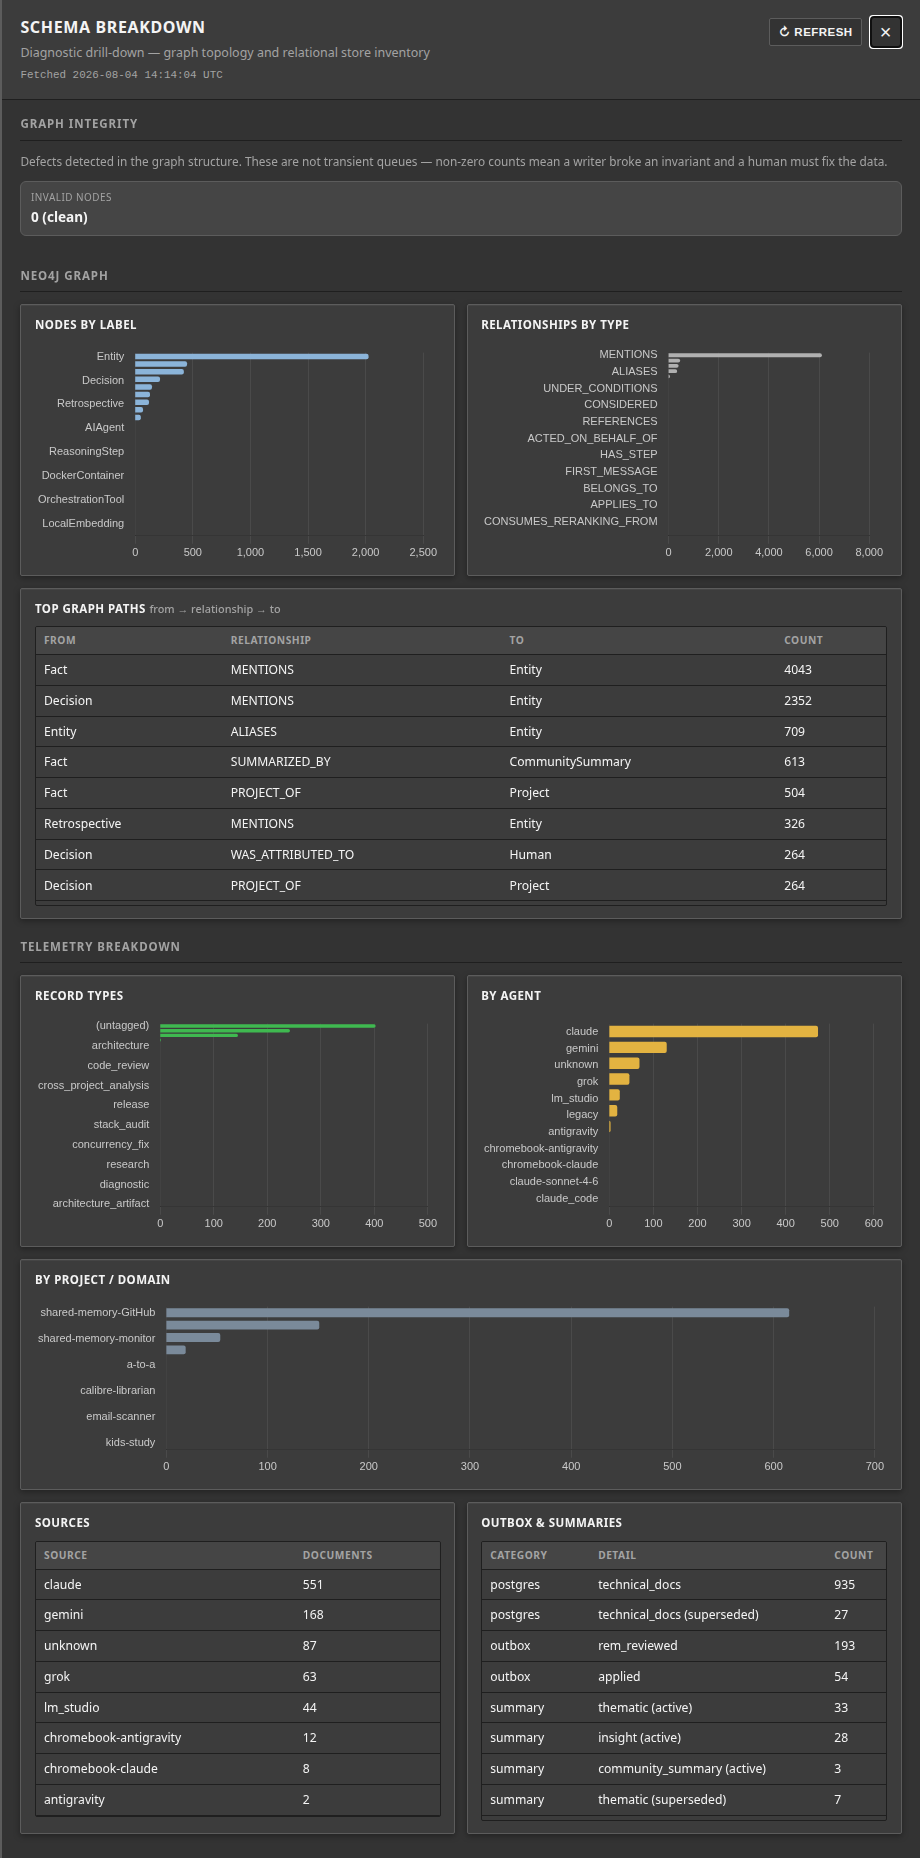
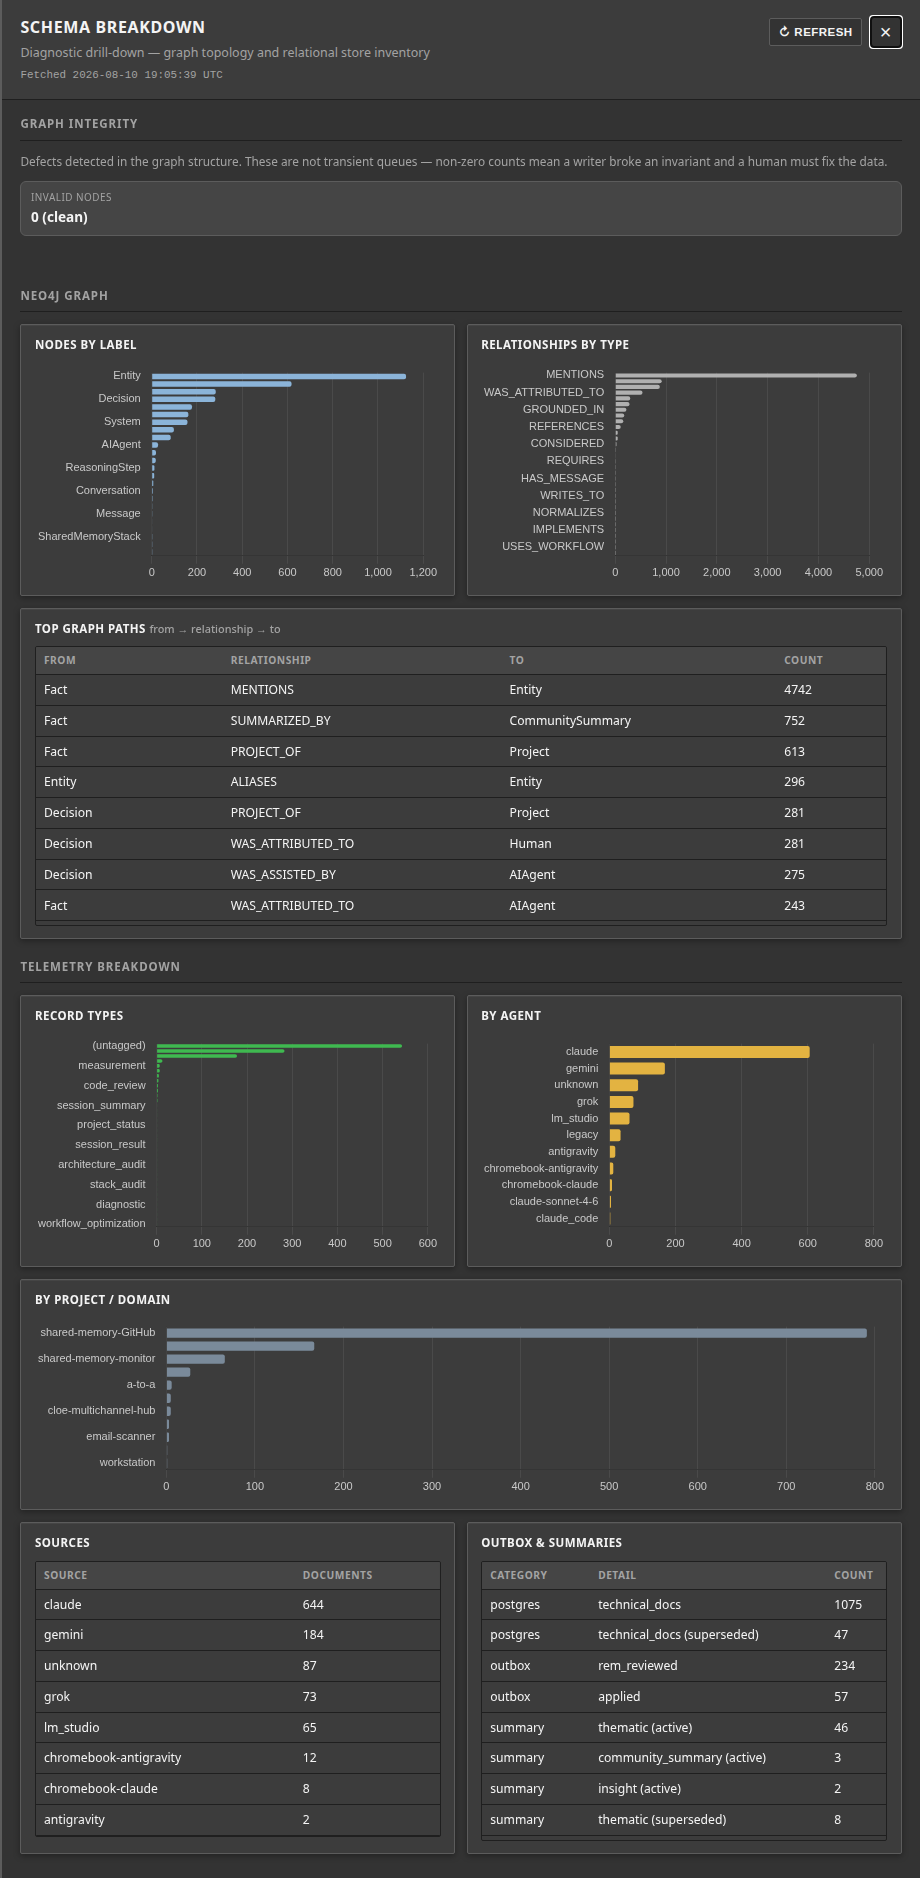
feat: redesign dashboard for Dreaming Cycle v2 (bump to 0.9.7)
Reflects the new reality where entities are human-sourced payload and no longer
gate consolidation. Consolidation now strictly gates on (project, domain).

diff --git a/static/dashboard.html b/static/dashboard.html
@@ -228,9 +228,6 @@
         <div class="section-title section-title-tight" id="consolidation-bytype-head" hidden>Consolidations by type</div>
         <div class="consolidation-summary" id="consolidation-bytype" hidden></div>
         <p class="consolidation-note" id="consolidation-coverage-note"></p>
-        <div class="section-title section-title-tight" id="consolidation-graph-head" hidden>Graph health · entity resolution</div>
-        <div class="consolidation-summary" id="consolidation-graph" hidden></div>
-        <p class="consolidation-note" id="consolidation-graph-note" hidden></p>
         <div class="section-title section-title-tight" id="consolidation-rem-head" hidden>REM reliability · stranded &amp; fairness</div>
         <div class="consolidation-summary" id="consolidation-rem" hidden></div>
         <p class="consolidation-note" id="consolidation-rem-note" hidden></p>
@@ -310,6 +307,11 @@
         <h3 class="schema-block-title">Graph integrity</h3>
         <p class="consolidation-note consolidation-note-lead">Defects detected in the graph structure. These are not transient queues — non-zero counts mean a writer broke an invariant and a human must fix the data.</p>
         <div class="consolidation-summary" id="schema-integrity-kpis"></div>
+      </section>
+      <section class="schema-block" id="schema-graph-health-block">
+        <h3 class="schema-block-title" id="consolidation-graph-head" hidden>Entity resolution</h3>
+        <div class="consolidation-summary" id="consolidation-graph" hidden></div>
+        <p class="consolidation-note" id="consolidation-graph-note" hidden></p>
       </section>
       <section class="schema-block">
         <h3 class="schema-block-title">Neo4j graph</h3>
@@ -865,10 +867,9 @@ function renderConsolidationDrilldown(C) {
     covNote.textContent = "Coverage = consolidated ÷ REM-processed facts. Awaiting = REM-processed facts not yet folded into a community summary. Per cycle, “Eligible” counts clusters (groups of related facts) that meet the fold gate.";
   }
 
-  // Graph health — the input-side axis (ADR-017/018). Derived from
-  // telemetry.entity_graph (v0.6.1 semantics): mention coverage + singletons
-  // are the fragmentation proxy, orphans are true degree-0 dangling nodes,
-  // alias edges/groups track the entity-resolution layer.
+  // Entity Resolution — Derived from telemetry.entity_graph (v0.6.1 semantics):
+  // Entities represent human-sourced ontology and semantic richness. They no
+  // longer gate consolidation (which strictly gates on project and domain).
   const gh = C?.graph_health || {};
   const ghBox = document.getElementById("consolidation-graph");
   const ghHead = document.getElementById("consolidation-graph-head");
@@ -919,11 +920,11 @@ function renderConsolidationDrilldown(C) {
       ghBox.innerHTML = consolidationKpiHtml(kpis);
       if (ghNote) {
         ghNote.hidden = false;
-        ghNote.textContent = "Input-side quality: structural-only entities hold graph edges (typed relations, summary links) but no live mention. Orphans are dangling nodes with no relationships at all — expected zero. Alias edges group surface-form variants of one concept (entity-resolution layer), keeping fragmented mentions foldable." +
+        ghNote.textContent = "Ontology quality: entities act as human-sourced descriptors and no longer gate consolidation. Orphans are dangling nodes with no relationships at all — expected zero. Alias edges group surface-form variants of one concept (entity-resolution layer), keeping fragmented mentions foldable." +
           (gh.genuinely_referenced_entities != null
             ? " Genuinely referenced is the MENTIONS-only census (gateway ≥0.8.6) and the correct alias-coverage denominator; Entities (all) still includes Decision provenance free-text. The pre-0.8.6 “Mentioned” residual is omitted when genuine is present (same count)."
             : " Mentioned is residual total − orphans − unmentioned (pre-0.8.6 gateways).") +
-          (gh.rem_pending ? " Counts include entities from records still awaiting REM (relationships are built during REM), so the fragmentation share is an upper bound until REM catches up." : "") +
+          (gh.rem_pending ? " Counts include entities from records still awaiting REM (relationships are built during REM)." : "") +
           (gh.alias_edges === 0 ? " No alias edges yet — the alias-writer sweep hasn't run on this gateway." : "");
       }
     } else {

diff --git a/src/sm_telemetry_monitor/consolidation.py b/src/sm_telemetry_monitor/consolidation.py
@@ -20,8 +20,9 @@ _CYCLE_SHORT = {
 }
 
 _NREM_DENSITY_NOTE = (
-    "telemetry.nrem counts density-gate cycles; consolidation.backlog counts "
-    "strict-gate eligible clusters — do not conflate"
+    "telemetry.nrem counts density (now deprecated in UI as a gating signal); "
+    "consolidation.backlog counts strict-gate eligible clusters — the actionable "
+    "strict (project, domain) gate."
 )
 
 # Per-cycle 24h activity (gateway ≥0.7.x, decision 834 / fact 835): separate
@@ -186,15 +187,12 @@ def _fact_coverage(neo4j: dict, summaries: list | None = None) -> dict:
 
 
 def _graph_health(entity_graph: dict | None, neo4j: dict | None = None) -> dict:
-    """Input-side consolidation quality from telemetry.entity_graph.
+    """Entity resolution quality from telemetry.entity_graph.
 
-    ADR-017/018 frame consolidation quality on two axes: the *output* side
-    (coverage — facts folded into summaries, see ``_fact_coverage``) and the
-    *input* side (entity resolution — how well the graph is connected before
-    consolidation runs). A heavily fragmented entity graph (many singletons /
-    unmentioned entities) is the "garbage-in" leading indicator: weakly
-    connected entities are never pulled into a cluster, so they never
-    consolidate regardless of cycle liveness.
+    Under Dreaming Cycle v2, entities do not gate consolidation (which gates
+    strictly on project and domain). The entity graph describes the graph's
+    semantic richness (human-sourced payload). We continue to measure its
+    integrity, but it is no longer the bottleneck for consolidation liveness.
 
     Gateway v0.6.1 corrected the field semantics (the old "no live MENTIONS"
     orphan count overstated ~500x): ``orphan_entities`` is now truly dangling

diff --git a/scripts/capture_screenshots.py b/scripts/capture_screenshots.py
@@ -99,7 +99,7 @@ def main() -> None:
             name = spec["name"]
             path = spec["path"]
             page = browser.new_page(viewport=spec["viewport"])
-            page.goto(f"{BASE}{path}", wait_until="networkidle", timeout=60_000)
+            page.goto(f"{BASE}{path}", wait_until="load", timeout=60_000)
             if "diagram" in path:
                 page.wait_for_selector("body[data-diagram-ready='1']", timeout=60_000)
             if "logs" in path:

diff --git a/src/sm_telemetry_monitor/__init__.py b/src/sm_telemetry_monitor/__init__.py
@@ -1,3 +1,3 @@
 """Read-only view over gateway telemetry and framework logs — no separate data interfaces."""
 
-__version__ = "0.9.2"
+__version__ = "0.9.7"

diff --git a/README.md b/README.md
@@ -16,7 +16,7 @@ first-write quality, graph shape, latency, topology, and audit trails — so you
 | **What you get** | Visual ops aid over **framework-owned** telemetry and logs |
 | **What you do not get** | A second metrics store, DB credentials, or write access to memory |
 | **Dashboard** | **http://127.0.0.1:8765/** |
-| **This release** | **v0.9.2** — **API v4** client · framework **≥ v0.8.33** (wire) · alternative vectors on **≥ v0.8.40** · full Status + **diagram** LLM pool on **≥ v0.8.9** (**local/external** placement) |
+| **This release** | **v0.9.7** — **API v4** client · framework **≥ v0.8.33** (wire) · alternative vectors on **≥ v0.8.40** · full Status + **diagram** LLM pool on **≥ v0.8.9** (**local/external** placement) |
 
 ---
 
@@ -102,7 +102,7 @@ Open **http://127.0.0.1:8765/**
 
 **Shared Memory Monitor** is a sister project to the framework — a read-only **view** over **gateway telemetry** and **framework logs**. It does not own memory stores, daemons, or a separate metrics API.
 
-**Compatibility (v0.9.2):** wire contract **API v4** (`X-SM-Api-Version: 4`) against **Shared Memory Framework gateway ≥ v0.8.33** — `./scripts/check-env.sh` / `agent-status.sh` should report `compat=ok`. **Alternative vectors** band (first-write quality) needs **gateway ≥ v0.8.40**. For the full ops picture (Status + **diagram** LLM pool with **local** vs **external** badges, consolidation graph health + REM fairness instruments, latency drawer), run **gateway ≥ v0.8.9**; older gateways stay compatible and simply omit missing fields. Doctor prints which telemetry panels and placement signals are present.
+**Compatibility (v0.9.7):** wire contract **API v4** (`X-SM-Api-Version: 4`) against **Shared Memory Framework gateway ≥ v0.8.33** — `./scripts/check-env.sh` / `agent-status.sh` should report `compat=ok`. **Alternative vectors** band (first-write quality) needs **gateway ≥ v0.8.40**. For the full ops picture (Status + **diagram** LLM pool with **local** vs **external** badges, consolidation graph health + REM fairness instruments, latency drawer), run **gateway ≥ v0.8.9**; older gateways stay compatible and simply omit missing fields. Doctor prints which telemetry panels and placement signals are present.
 
 | | Framework | Monitor (this repo) |
 |---|-----------|---------------------|
@@ -205,7 +205,7 @@ Live framework topology: agents → gateway; REM/NREM ↔ gateway; memory and in
 | `telemetry.compliance` | **Framework gateway v0.6.3+** — feeds **Schema conformance** (graph writes inside the agreed ontology). Older gateways omit it. |
 | `telemetry.latency` | **Framework gateway v0.6.3+** — feeds the **Throughput & latency** drawer (per-model enrichment model-floor vs queue-wait split; consolidation-cycle p50/p95). Older gateways omit it (drawer shows an unsupported note). |
 | `postgres.technical_docs_superseded` | Soft-superseded row count on Schema drawer meta (and poll cache). |
-| Client `X-SM-Api-Version` | Monitor **v0.9.2** advertises **api_version 4** — compatible with **framework ≥ v0.8.33**; alternative vectors on **≥ v0.8.40**; full panel set + LLM placement on **≥ v0.8.9**. `./scripts/check-env.sh` reports `server=N client=N compat=ok` and which telemetry panels / placement signals are present. |
+| Client `X-SM-Api-Version` | Monitor **v0.9.7** advertises **api_version 4** — compatible with **framework ≥ v0.8.33**; alternative vectors on **≥ v0.8.40**; full panel set + LLM placement on **≥ v0.8.9**. `./scripts/check-env.sh` reports `server=N client=N compat=ok` and which telemetry panels / placement signals are present. |
 | Python 3.11+ and [uv](https://docs.astral.sh/uv/) | `uv sync` / CLI |
 
 ### Local logs (required for `/logs` and diagram flows; same host as gateway in practice)
@@ -541,13 +541,13 @@ Regenerate screenshots: `./scripts/capture-screenshots.sh` (Playwright; monitor 
 | Doc | Topic |
 |-----|-------|
 | [SISTER_PROJECT.md](docs/SISTER_PROJECT.md) | Framework boundary |
-| [CHANGELOG.md](CHANGELOG.md) | Releases (current: **v0.9.2** · API **4** · framework **≥0.8.33** wire · **≥0.8.40** alt-vectors · **≥0.8.9** full panels) |
+| [CHANGELOG.md](CHANGELOG.md) | Releases (current: **v0.9.7** · API **4** · framework **≥0.8.33** wire · **≥0.8.40** alt-vectors · **≥0.8.9** full panels) |
 | [SECURITY.md](SECURITY.md) | Secrets policy |
 
 ```bash
 ./scripts/pre-publish-check.sh && ./scripts/publish.sh
 # release: tag must match pyproject / __init__ / CHANGELOG
-# gh release create v0.9.2 --title "v0.9.2" --notes-file …
+# gh release create v0.9.7 --title "v0.9.7" --notes-file …
 ```
 
 ---

diff --git a/docs/SISTER_PROJECT.md b/docs/SISTER_PROJECT.md
@@ -25,7 +25,7 @@ The monitor never imports framework Python code. **No third data path** in monit
 | `GET /memory/telemetry` | Pipeline metrics, `nrem`, `breakdown`, `spine`, `compliance`, `latency`, `entity_graph`, `consolidation` |
 | `POST /memory/graph` | Neo4j schema panels (read-only Cypher, server-side guard) |
 
-**Client API version:** Monitor **v0.9.2** sets `bridge.API_VERSION = 4` to match
+**Client API version:** Monitor **v0.9.7** sets `bridge.API_VERSION = 4` to match
 the **deployed** gateway `api_version` (framework **≥ 0.8.33** / projects registry
 + sentinel + telemetry enhancements). **Alternative vectors** on first-write quality
 expects **framework ≥ 0.8.40** (`telemetry.spine.alternative_vectors`). Full Status +

diff --git a/AGENTS.md b/AGENTS.md
@@ -222,7 +222,7 @@ If only running foreground, stop and re-run `./scripts/run-loop.sh --serve --int
 
 ```bash
 ./scripts/agent-upgrade.sh           # pull main, uv sync, restart unit if present, status
-# or pin: ./scripts/agent-upgrade.sh --ref v0.9.2   # example tag
+# or pin: ./scripts/agent-upgrade.sh --ref v0.9.7   # example tag
 ```
 
 After upgrade, confirm `compat=ok` if the gateway bumped `api_version` — the monitor

diff --git a/CHANGELOG.md b/CHANGELOG.md
@@ -6,6 +6,12 @@ Format based on [Keep a Changelog](https://keepachangelog.com/en/1.1.0/).
 
 ## [Unreleased]
 
+## [0.9.7] - 2026-08-10
+
+### Changed
+
+- **Dreaming Cycle v2 Redesign**: Removed entity resolution as a consolidation gating constraint in the UI. Consolidation now strictly reflects the `(project, domain)` gate. Moved entity ontology health to the Schema Breakdown drawer.
+
 ## [0.9.2] - 2026-08-04
 
 ### Changed
